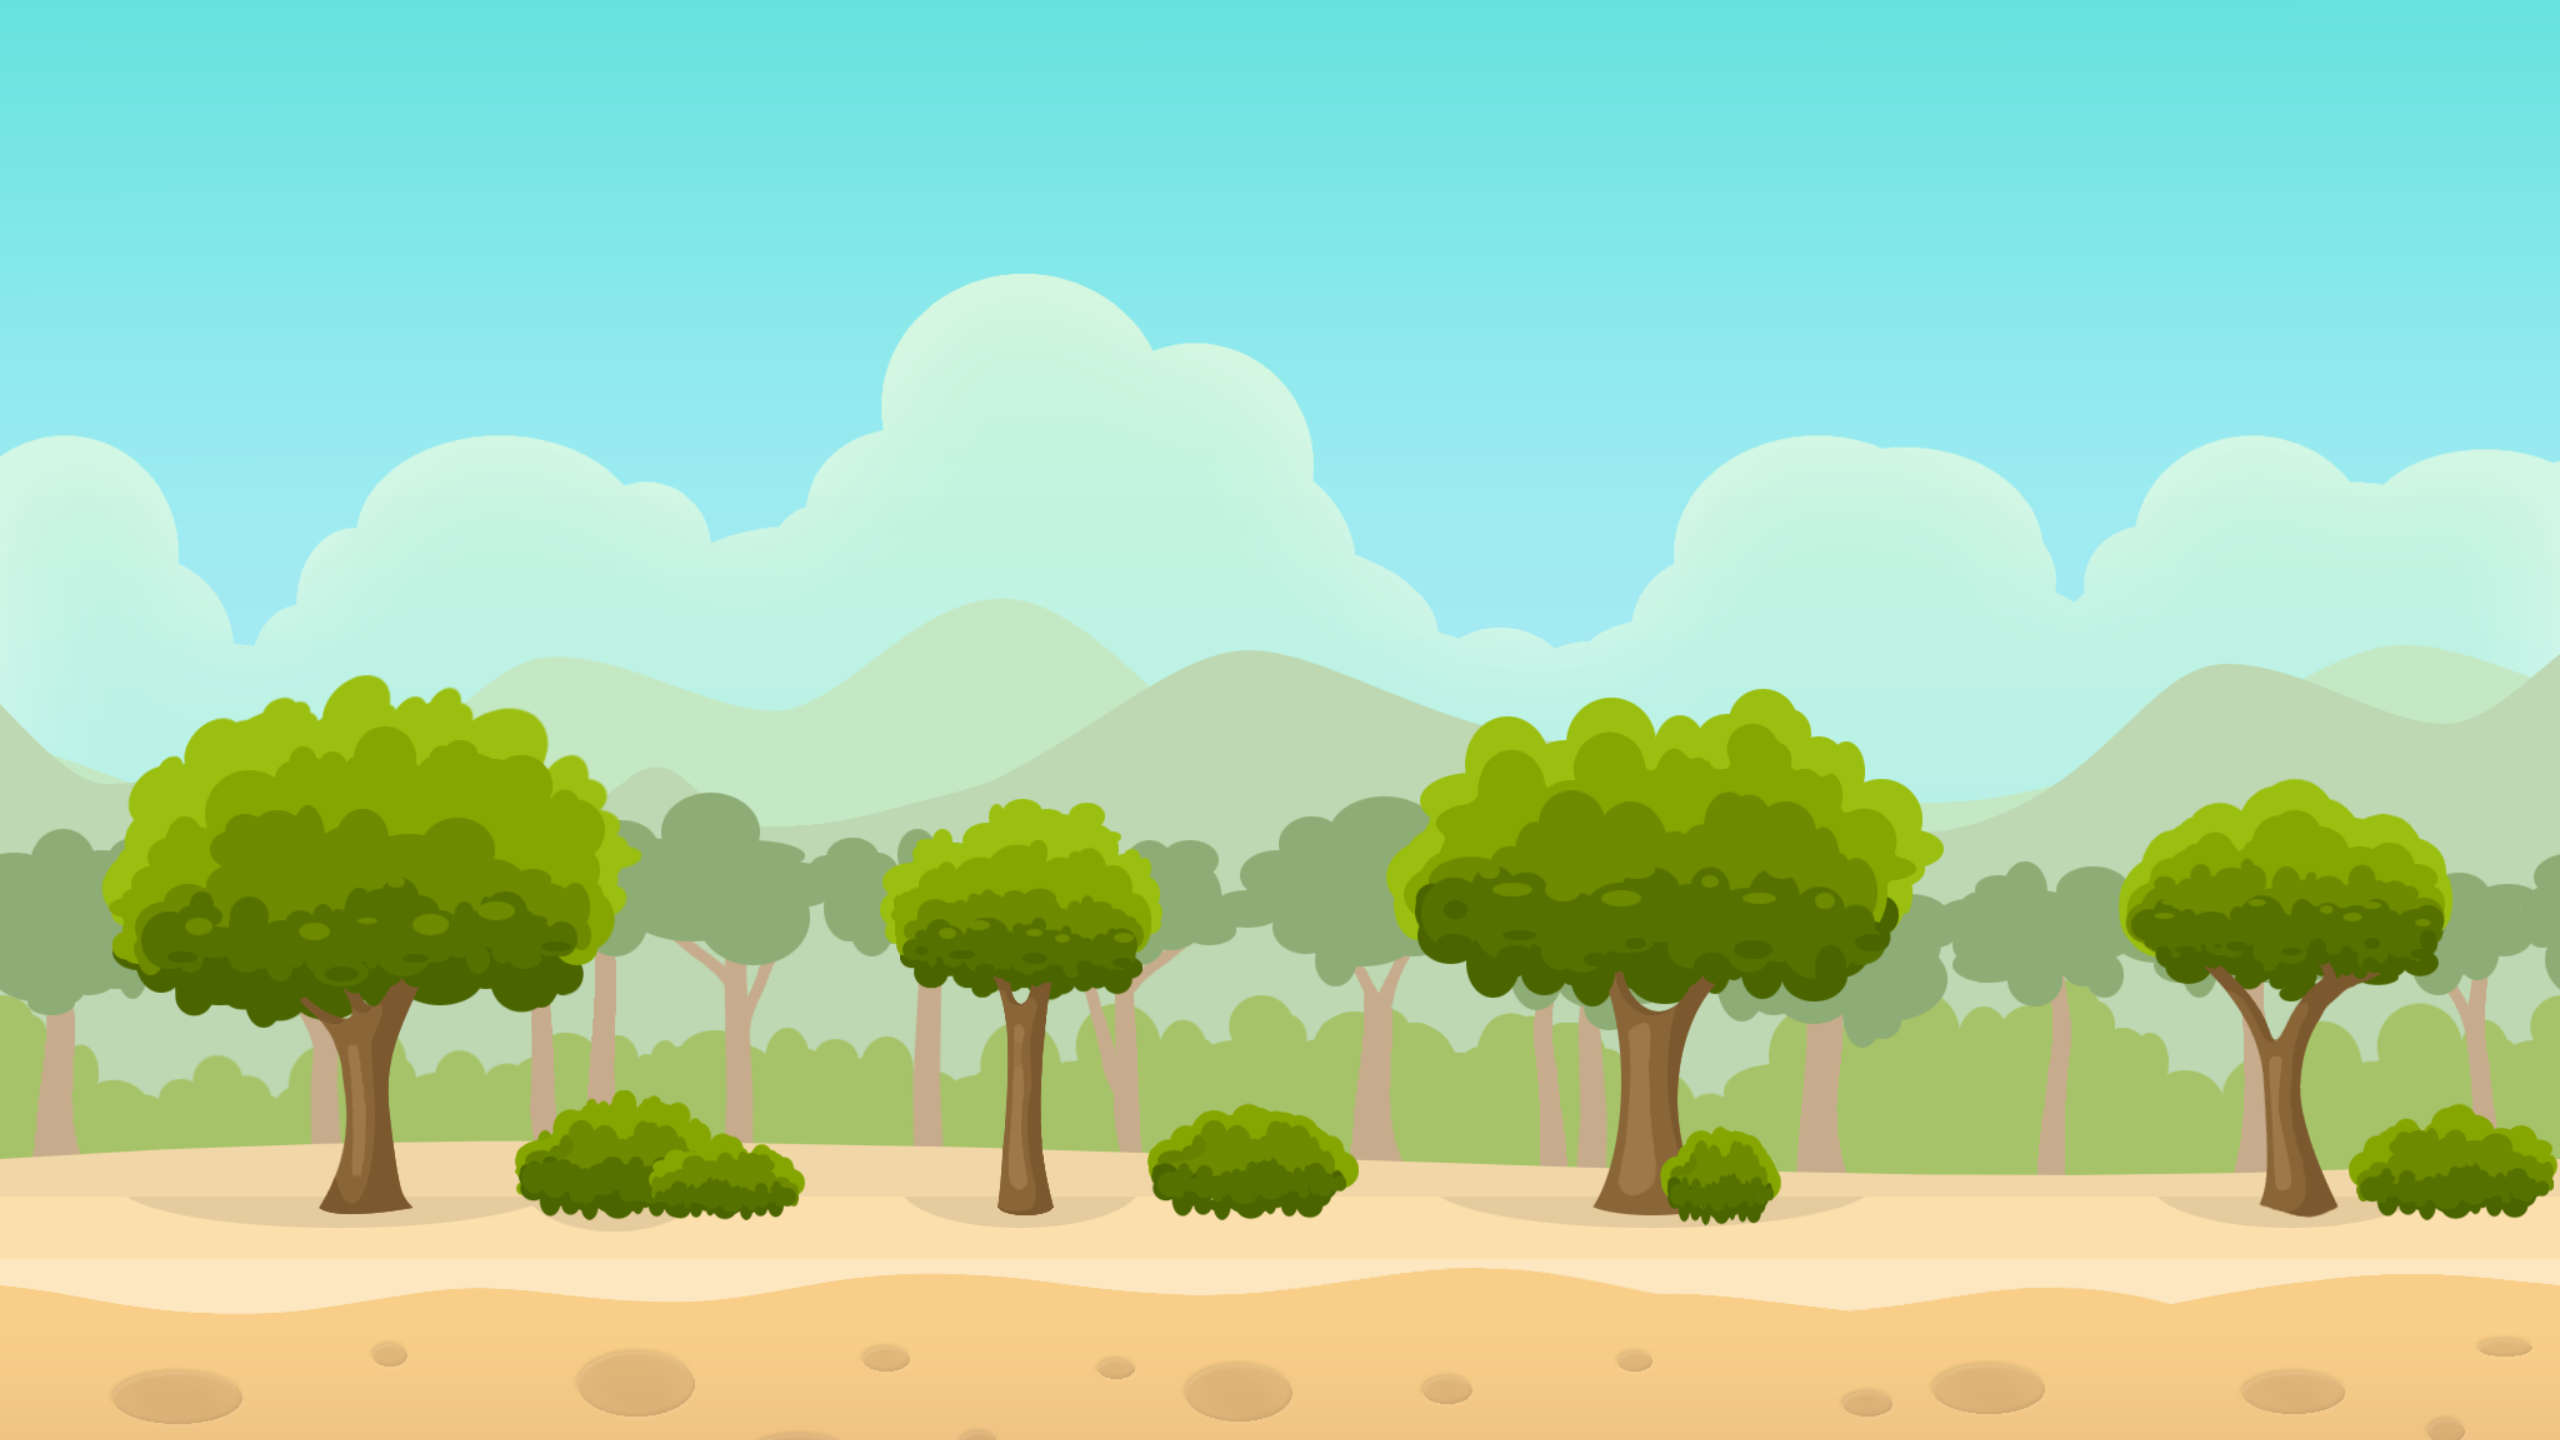
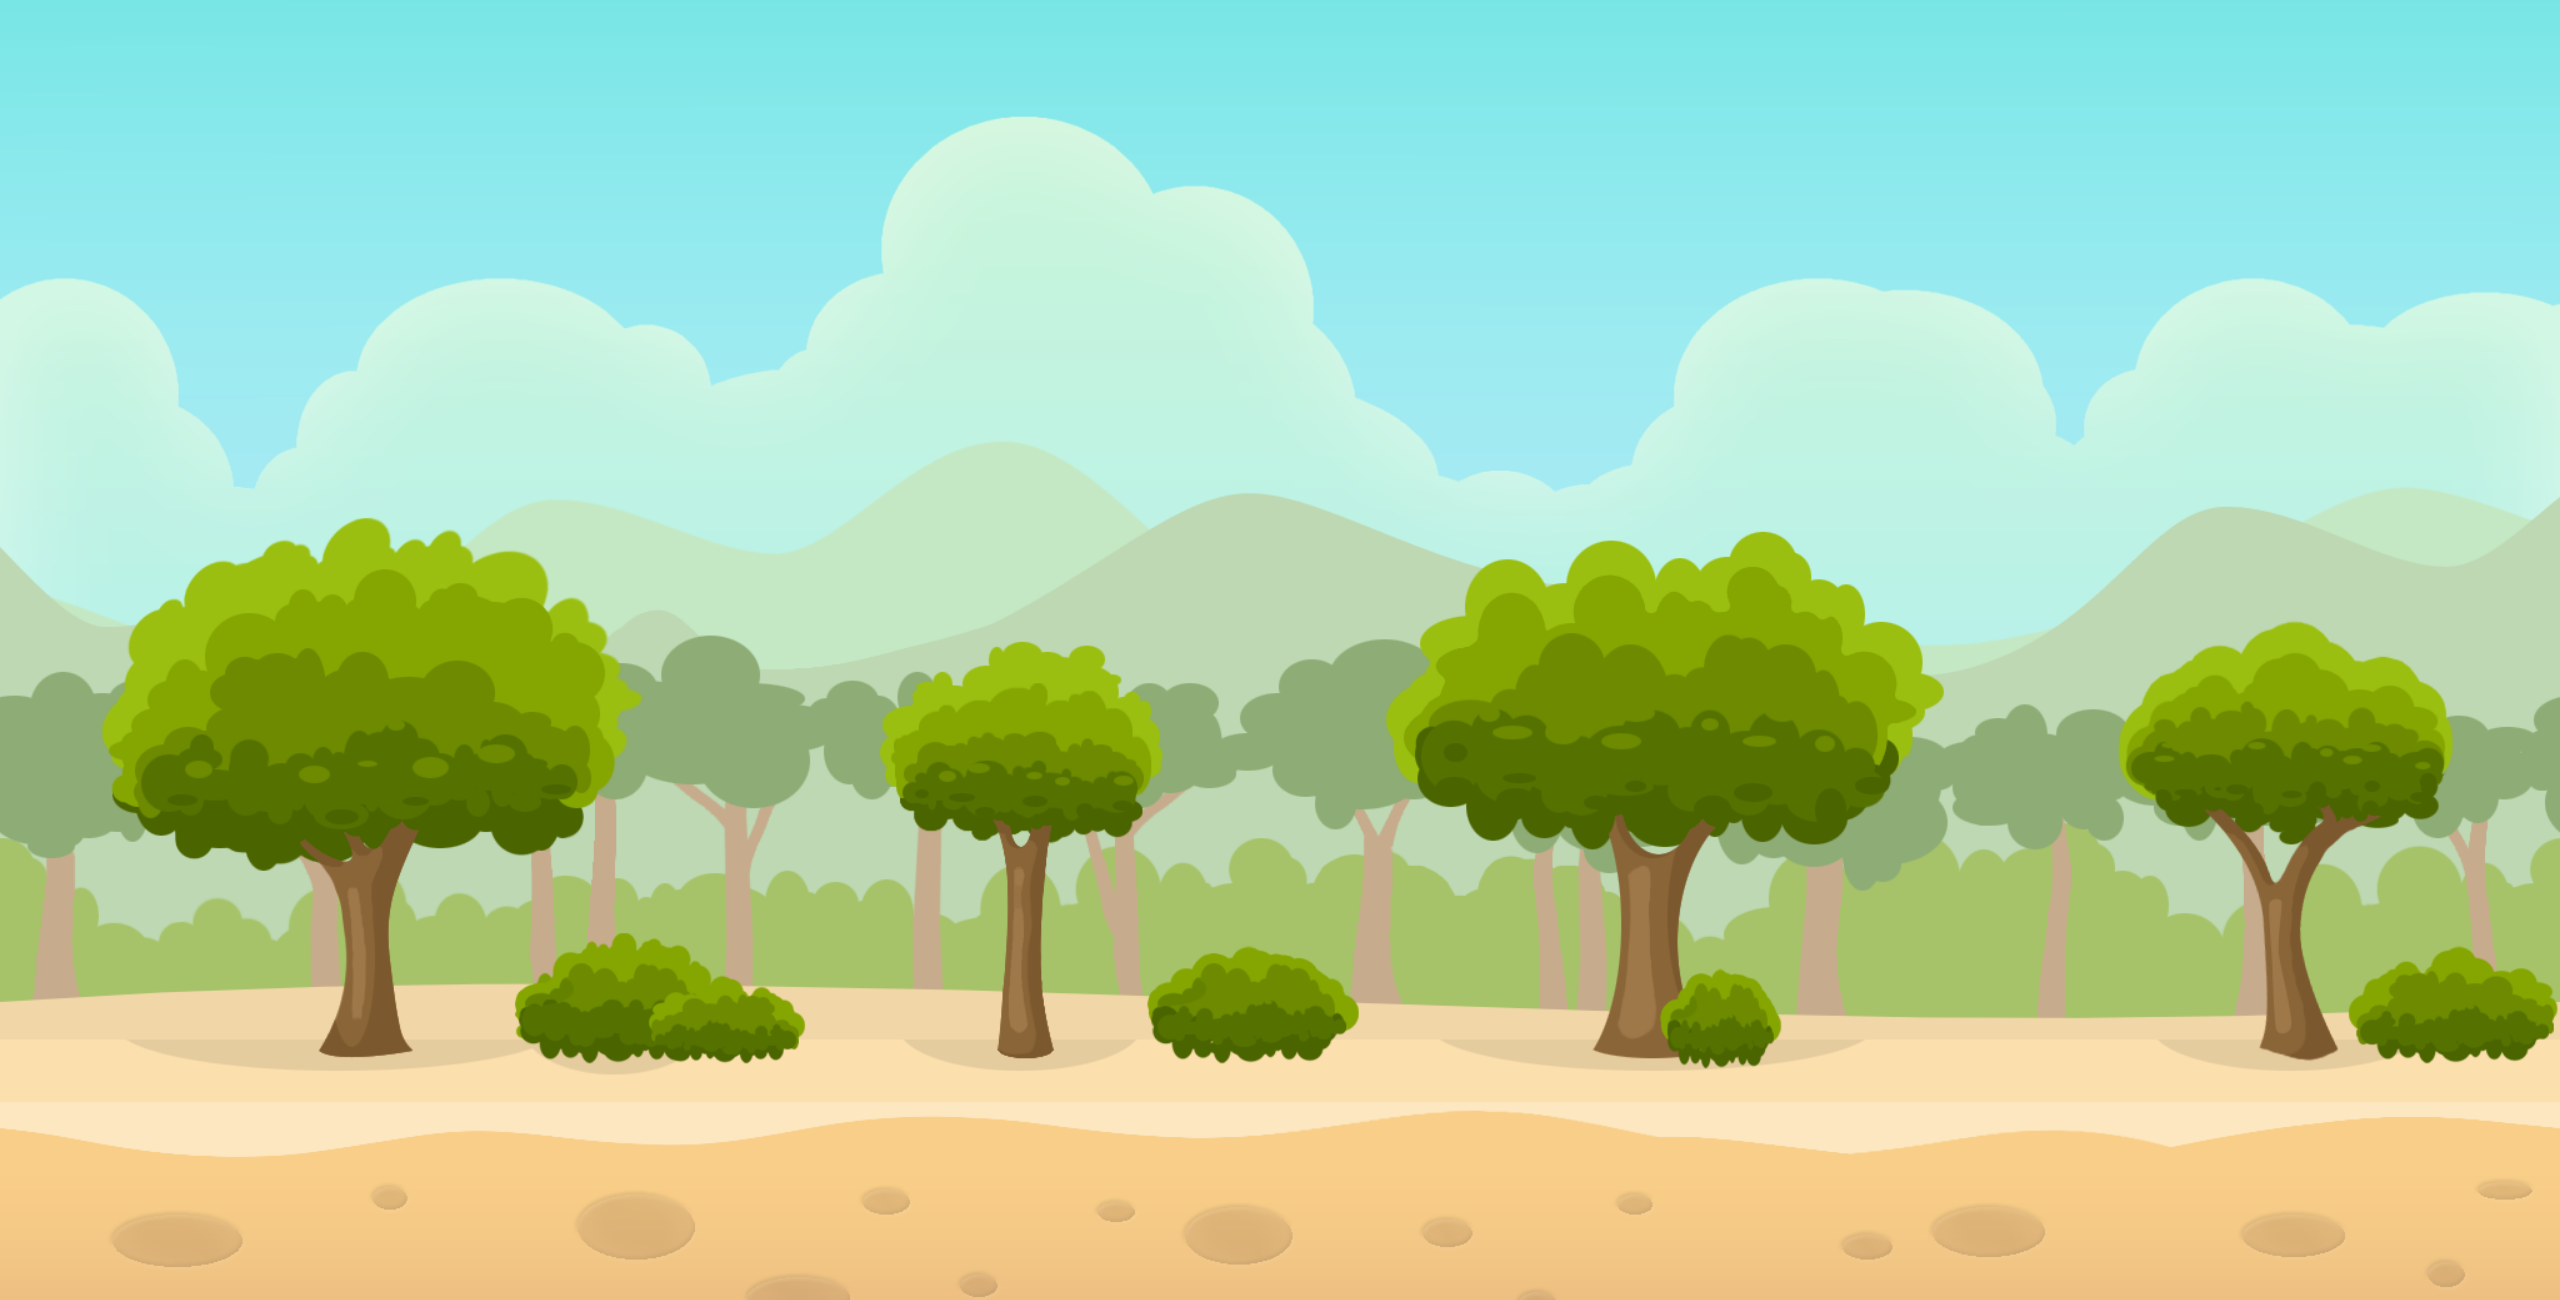
desktop ratio is good

diff --git a/src/scenes/maingame.js b/src/scenes/maingame.js
@@ -10,6 +10,17 @@ let lastScoreTime = 0;
 let gameSpeed = 4.2;
 let currentBgKey = null;
 
+const difficultyLevels = [
+    { score: 0,   speed: 4.2 },
+    { score: 25,  speed: 5.0 },
+    { score: 35,  speed: 5.8 },
+    { score: 50,  speed: 6.5 },
+    { score: 60,  speed: 7.6 },
+    { score: 100, speed: 8.5 },
+    { score: 115, speed: 9.5 },
+    { score: 130, speed: 11.0 },
+];
+
 class GameScene extends Phaser.Scene {
     constructor() {
         super({ key: 'GameScene' });
@@ -172,36 +183,46 @@ class GameScene extends Phaser.Scene {
     handleResize(gameSize) {
         const { width, height } = gameSize;
 
-        // Chọn ảnh nền phù hợp
+        // Chọn ảnh nền phù hợp theo width
         const newBgKey = this.getBackgroundKey(width);
         if (currentBgKey !== newBgKey) {
             background.setTexture(newBgKey);
             currentBgKey = newBgKey;
         }
 
-        // Fit chiều cao, giữ nguyên tỉ lệ
+        // ✅ Scale theo chiều rộng, giữ tỉ lệ gốc, căn giữa theo chiều dọc
         const texture = this.textures.get(currentBgKey).getSourceImage();
-        const scale = height / texture.height;
-        const targetWidth = texture.width * scale;
-        background.setDisplaySize(targetWidth, height).setPosition(width / 2, height / 2);
+        const scale = width / texture.width;  // scale cố định theo chiều rộng
+        const displayHeight = texture.height * scale;
 
-        // Cập nhật ground
+        background
+            .setDisplaySize(width, displayHeight)
+            .setOrigin(0.5, 1)
+            .setPosition(width / 2, height * 1.12);
+
+        // 🟫 Ground và collider luôn nằm sát đáy
         const groundHeight = height * 0.1;
         ground.setPosition(0, height).setDisplaySize(width, groundHeight);
 
-        // Collider nằm sát đáy
-        groundCollider.setPosition(width / 2, height - groundHeight / 2).setSize(width, groundHeight);
+        groundCollider
+            .setPosition(width / 2, height - groundHeight / 2)
+            .setSize(width, groundHeight);
 
-        // Player luôn nằm đúng trên ground
+        // 🧍♂ Player đặt ngay trên ground
         player.setY(height - groundHeight - 150);
     }
 
     adjustSpeedByScore(score) {
-        if (score >= 100) gameSpeed = 8.0;
-        else if (score >= 60) gameSpeed = 7.2;
-        else if (score >= 50) gameSpeed = 6.5;
-        else if (score >= 35) gameSpeed = 5.8;
-        else if (score >= 25) gameSpeed = 5.0;
+        // Tìm level cao nhất phù hợp với điểm hiện tại
+        const level = difficultyLevels
+            .slice() // sao chép mảng để tránh mutate
+            .reverse()
+            .find(l => score >= l.score);
+
+        if (level && gameSpeed !== level.speed) {
+            gameSpeed = level.speed;
+            console.log(`Level up! Score: ${score}, Speed: ${gameSpeed}`);
+        }
     }
 
     spawnCactus() {
